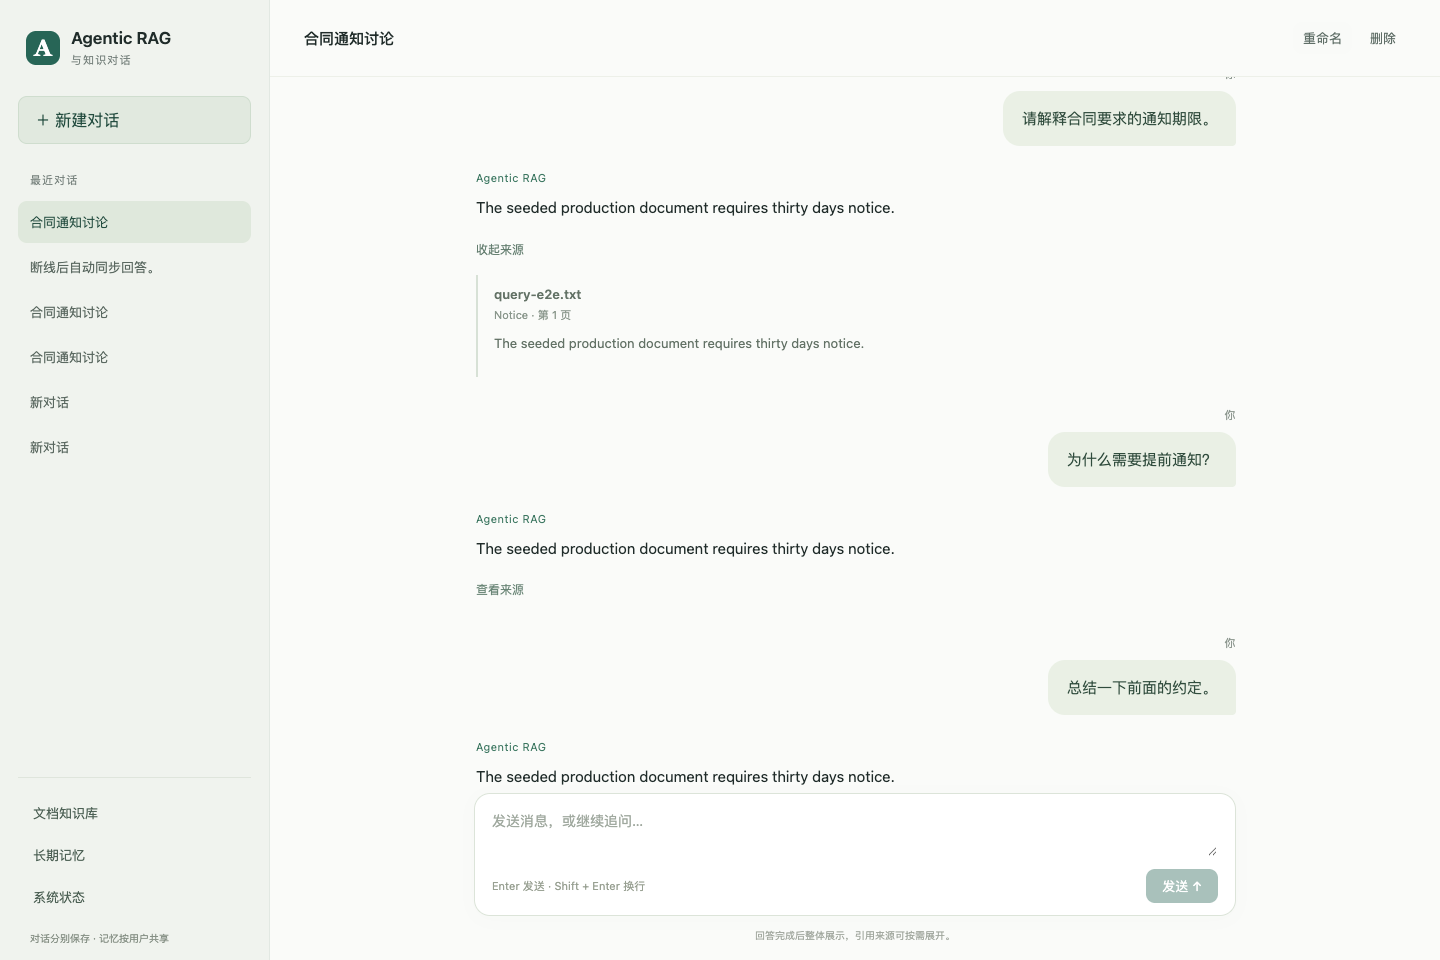
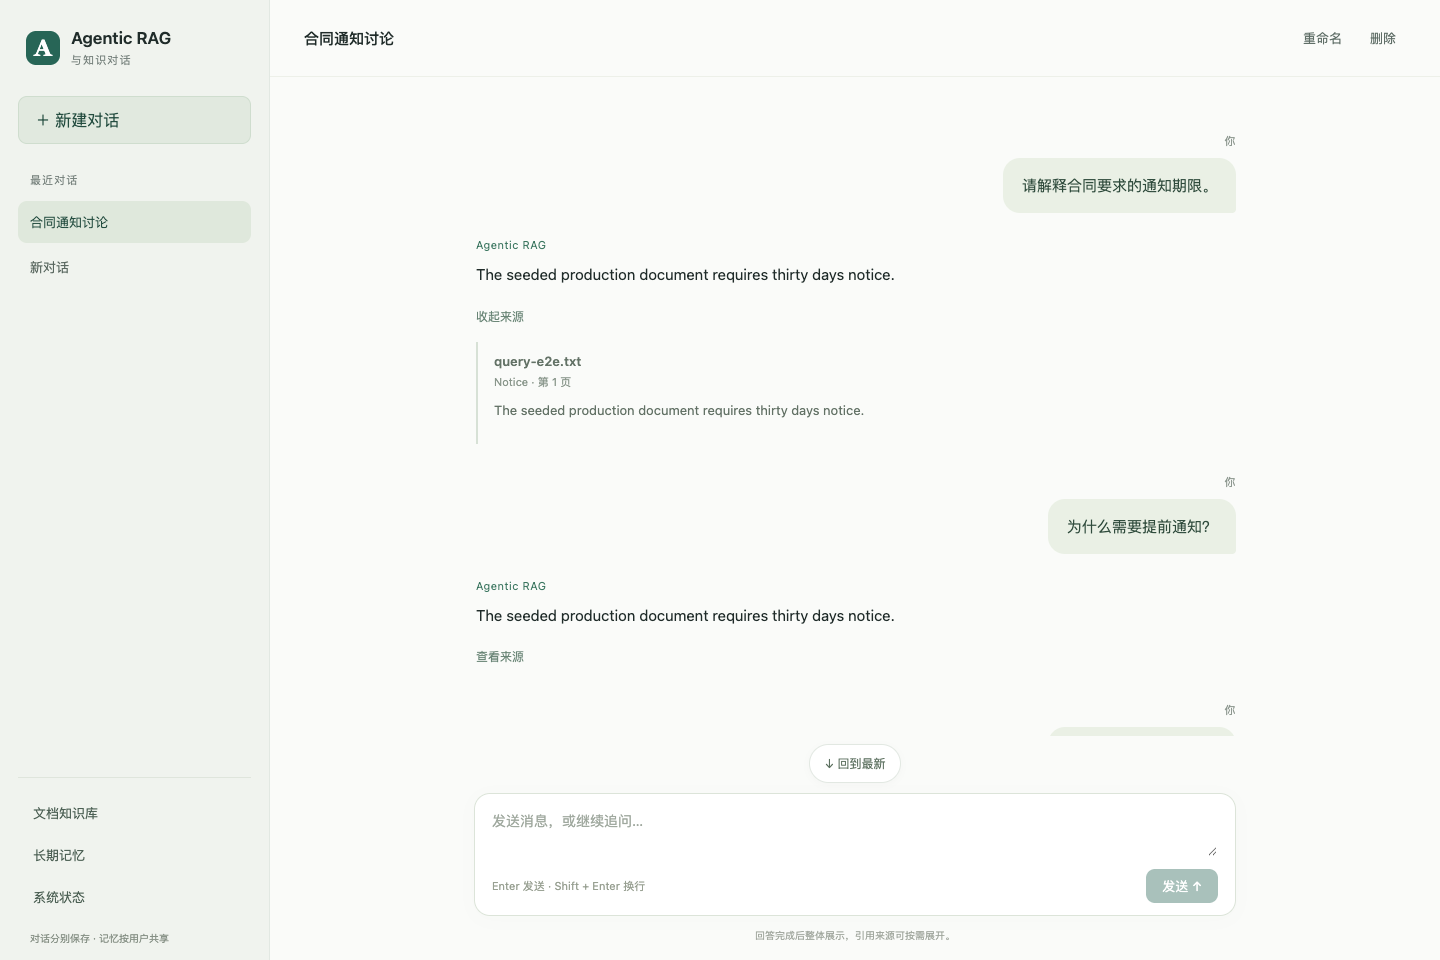
fix: isolate chat lifecycle callbacks by run and view

diff --git a/src/agentic_rag/api/static/app.js b/src/agentic_rag/api/static/app.js
@@ -38,6 +38,8 @@
       sourceCounter = 0;
     let summaries = new Map();
     const openSources = new Map();
+    const pendingCancellations = new Set();
+    const loadingHistoryViews = new Set();
     const current = () =>
       state.selectedSessionId
         ? S.sessionState(state, state.selectedSessionId)
@@ -62,6 +64,10 @@
           !session.pendingSubmission,
         canStop: !!session?.activeRunId,
       });
+      byId("cancel-button").disabled = pendingCancellations.has(
+        session?.activeRunId,
+      );
+      byId("older-turns").disabled = loadingHistoryViews.has(token?.generation);
       const pending = session?.pendingSubmission;
       byId("pending-actions").hidden = pending?.status !== "unknown";
       byId("retry-submission").hidden = !pending?.question;
@@ -92,8 +98,9 @@
           view.notice("会话列表暂不可用，请稍后重试。");
       }
     }
-    function stopObservation() {
-      observer?.abort();
+    function stopObservation(runId) {
+      if (runId && observer?.runId !== runId) return;
+      observer?.control.abort();
       observer = null;
     }
     function clearSources() {
@@ -170,7 +177,7 @@
       stopObservation();
       if (!runId || document.hidden || !valid(t)) return;
       const control = new AbortController();
-      observer = control;
+      observer = { runId, control };
       const session = current();
       void api
         .watchRun({
@@ -340,8 +347,13 @@
         if (!disposed && state.viewGeneration === generation)
           await selectSession(summary.session_id);
         void refreshSessions();
-      } catch (_) {
-        if (!disposed)
+      } catch (error) {
+        if (error.status === 410 && error.code === "SESSION_GONE") {
+          if (state.creationRequestId === key) state.creationRequestId = null;
+          save();
+          if (!disposed && state.viewGeneration === generation)
+            view.notice("之前创建的对话已删除。再次点击新建可开始新的对话。");
+        } else if (!disposed && state.viewGeneration === generation)
           view.notice(
             "新建对话尚未确认。再次点击新建会使用同一个请求标识继续确认。",
           );
@@ -415,8 +427,9 @@
     async function stop() {
       const t = token,
         id = current()?.activeRunId;
-      if (!id) return;
-      byId("cancel-button").disabled = true;
+      if (!id || pendingCancellations.has(id)) return;
+      pendingCancellations.add(id);
+      updateComposer();
       try {
         const run = await api.cancelRun(id);
         if (valid(t)) {
@@ -424,23 +437,27 @@
           view.updateTurn(current().turns.get(id));
           updateComposer();
           if (S.isTerminal(run)) {
-            stopObservation();
+            stopObservation(id);
             await refreshLatest(t);
             void refreshSessions();
           }
         }
       } catch (_) {
-        if (valid(t)) view.notice("停止请求暂未确认，任务状态仍在同步。");
+        if (valid(t) && current()?.activeRunId === id)
+          view.notice("停止请求暂未确认，任务状态仍在同步。");
       } finally {
-        if (valid(t)) byId("cancel-button").disabled = false;
+        pendingCancellations.delete(id);
+        if (valid(t)) updateComposer();
       }
     }
     async function older() {
       const session = current(),
         t = token;
-      if (!session?.historyCursor) return;
+      if (!session?.historyCursor || loadingHistoryViews.has(t.generation))
+        return;
       const button = byId("older-turns");
-      button.disabled = true;
+      loadingHistoryViews.add(t.generation);
+      updateComposer();
       try {
         const page = await api.listTurns(t.sessionId, {
           cursor: session.historyCursor,
@@ -457,7 +474,8 @@
       } catch (_) {
         if (valid(t)) view.notice("更早消息加载失败，请重试。");
       } finally {
-        if (valid(t)) button.disabled = false;
+        loadingHistoryViews.delete(t.generation);
+        if (valid(t)) updateComposer();
       }
     }
     async function rename() {

diff --git a/tests/integration/api/test_chat_client.py b/tests/integration/api/test_chat_client.py
@@ -25,3 +25,21 @@ def test_chat_client_contract(script):
         timeout=30,
     )
     assert result.returncode == 0, (result.stdout + result.stderr)[-10000:]
+
+
+@pytest.mark.parametrize(
+    "case", ["lateCancel", "crossSessionCancel", "historySwitch", "deletedCreation"]
+)
+def test_chat_controller_lifecycle(case):
+    result = subprocess.run(
+        [
+            "node",
+            str(Path(__file__).with_name("chat_lifecycle_flow.cjs")),
+            str(STATIC),
+            case,
+        ],
+        capture_output=True,
+        text=True,
+        timeout=30,
+    )
+    assert result.returncode == 0, (result.stdout + result.stderr)[-10000:]

diff --git a/docs/superpowers/plans/2026-10-01-persistent-chat-sessions-plan.md b/docs/superpowers/plans/2026-10-01-persistent-chat-sessions-plan.md
@@ -10,7 +10,7 @@
 
 **Spec:** [持久化多轮聊天与会话管理设计](../specs/2026-10-01-persistent-chat-sessions-design.md)，用户已确认。源码基线 `b989c96`，设计文档提交 `2f71062`。
 
-**Branch / status:** 按用户要求在现有 checkout 的 `main` 分支开发；不另建分支或 worktree。用户已选择当前会话顺序实施（A）；Task 1–8 已实现并验证，最终独立审查进行中。
+**Branch / status:** 按用户要求在现有 checkout 的 `main` 分支开发；不另建分支或 worktree。用户已选择当前会话顺序实施（A）；Task 1–8 已实现并验证，已完成一次独立审查及问题修复。
 
 ## Global Constraints
 
@@ -285,7 +285,7 @@ fixture 在实际事件监听器上触发 compositionstart/end、keydown、scrol
 - [x] **Step 3: 完成一次针对性回归。** 运行 `conda run -n agentic-rag python -m pytest tests/unit tests/integration/api tests/integration/persistence/test_chat_sessions.py tests/integration/persistence/test_chat_turns.py tests/integration/persistence/test_chat_sources.py tests/integration/persistence/test_conversation_context.py tests/integration/runtime/test_query_worker.py -q`。Ruff 只检查本次变更的 Python 文件；记录已有类型检查基线，检查触及模块新增错误，不顺手重构无关代码。只有新失败或修复后才追加针对性重跑。
 - [x] **Step 4: 实际浏览器验收。** 使用隔离测试后端打开页面，在 1440px/390px 宽度检查三轮问答、列表折叠、重命名、刷新进行中任务、切换期间完成、停止、来源展开与文档删除、滚动/回到最新、中文输入、键盘焦点。用可控延迟/断网验证旧请求晚到和轮询回退；记录截图/结果，不只以 Node 虚拟 DOM 代替真实布局验证。
 - [x] **Step 5: 更新运维文档。** 明确 main 开发、历史列表从新功能起、逻辑删除语义、完整历史与模型窗口差别、备份/排空 Run/增量迁移/协调 API+Worker+静态发布步骤。文档给出检查命令，不在此步执行部署；回滚应用保留新增表列。更新旧 live-provider smoke 的 DOM/接口断言，但不自动触发真实 provider。
-- [ ] **Step 6: 完成最终审查并提交。** 对照 spec §9 验收矩阵检查全部实现与证据，解决功能内发现的问题，再按选定执行方式完成独立代码审查；`git diff --check` 必须通过，确认当前分支仍为 main 且仅包含目标改动。提交 `test: verify persistent chat workflows and document rollout`，向用户报告实际通过项及任何未执行项。
+- [x] **Step 6: 完成最终审查并提交。** 对照 spec §9 验收矩阵检查全部实现与证据，解决功能内发现的问题，再按选定执行方式完成独立代码审查；`git diff --check` 必须通过，确认当前分支仍为 main 且仅包含目标改动。提交 `test: verify persistent chat workflows and document rollout`，向用户报告实际通过项及任何未执行项。
 
 ## Coverage and Handoff
 

diff --git a/docs/superpowers/specs/2026-10-01-persistent-chat-sessions-design.md b/docs/superpowers/specs/2026-10-01-persistent-chat-sessions-design.md
@@ -2,7 +2,7 @@
 
 日期：2026-10-01。
 
-状态：需求、总体方案与本文书面设计均已获用户确认；现已实现并完成集成与浏览器验收，最终独立审查进行中。用户指定本次优化直接在 `main` 分支开发。
+状态：需求、总体方案与本文书面设计均已获用户确认；现已实现并完成集成与浏览器验收，已完成一次独立审查及问题修复。用户指定本次优化直接在 `main` 分支开发。
 
 源码核对基线：`main / b989c96`。本文是确认的行为契约；实际验证范围见 [验收记录](../../validation/2026-10-01-persistent-chat-sessions.md)。现有控制台设计中的三栏调试布局和日志展示要求，由本文的聊天交互要求替代；用户隔离、公开答案投影和证据审计边界继续适用。
 
